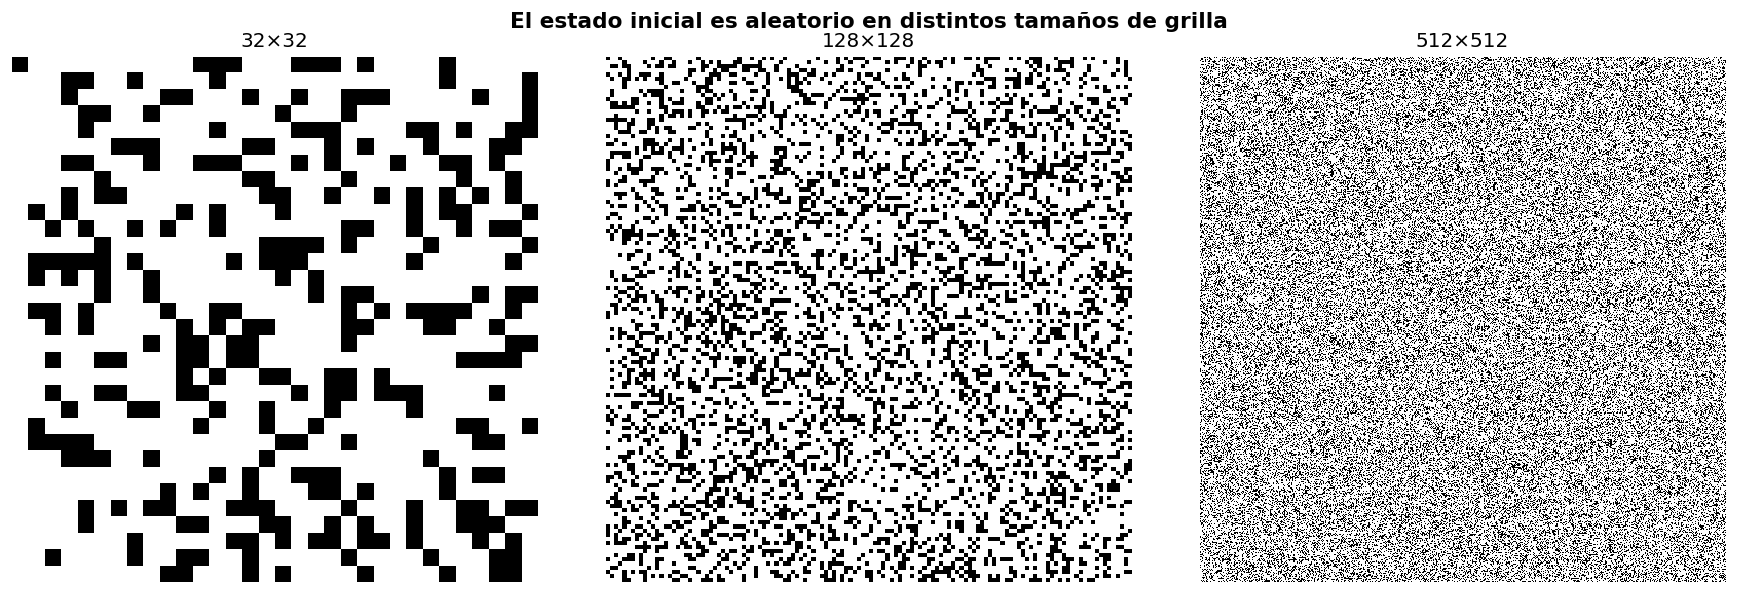
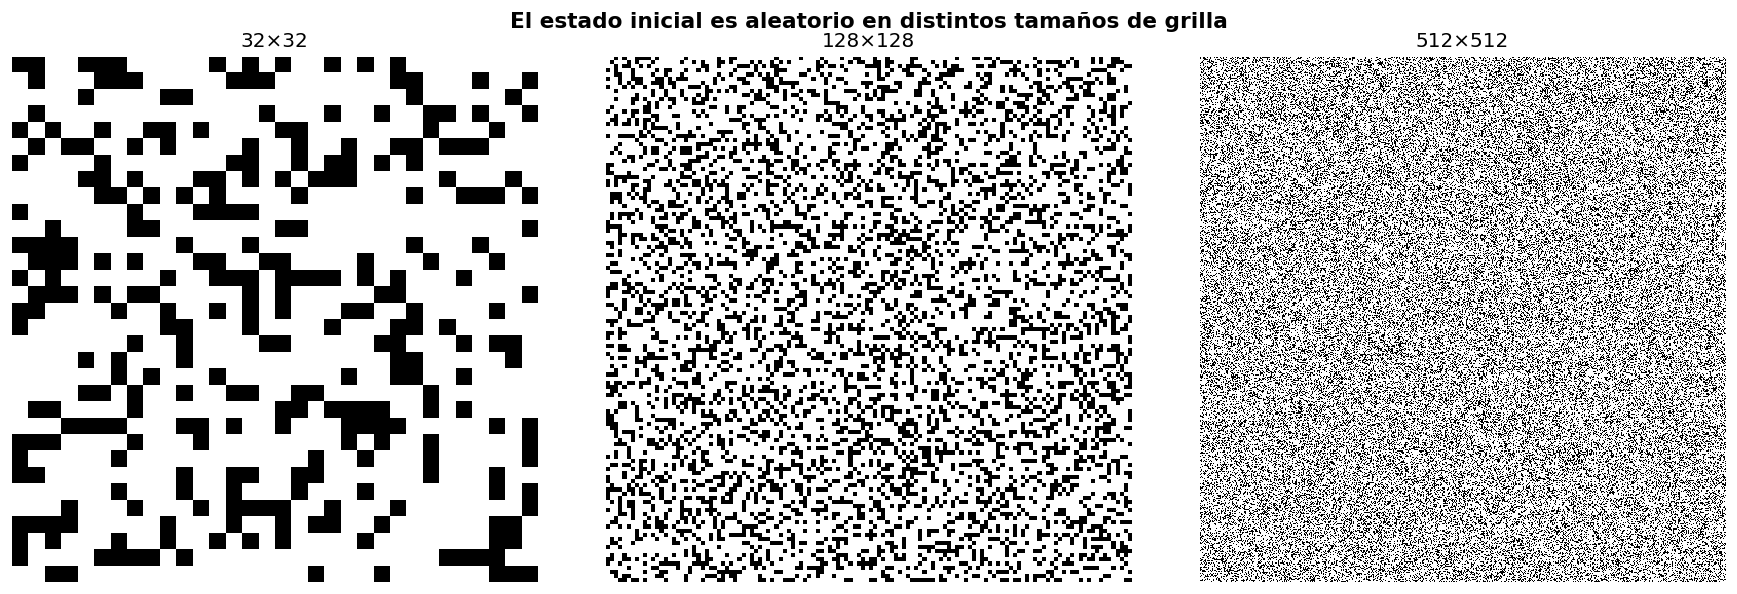
update 2

diff --git a/rendimiento.py b/rendimiento.py
@@ -1,39 +1,25 @@
-"""
-Tarea 1: Juego de la Vida de Conway
-Módulo de medición de rendimiento y complejidad empírica.
-
-Varía el tamaño de la grilla y mide el tiempo promedio por iteración,
-luego genera gráficas comparativas con curvas teóricas de complejidad.
-
-Autor: [Tu nombre]
-Fecha: 2026-05-20
-"""
-
 import numpy as np
 import matplotlib.pyplot as plt
 import time
 
 from game_of_life import GameOfLife
 
-
-# ─────────────────────────────────────────────
 # 1. Función de benchmark
 # ─────────────────────────────────────────────
 
 def benchmark(sizes, repetitions=5, steps_per_run=10):
     """
-    Mide el tiempo promedio de ejecución por iteración para distintos
-    tamaños de grilla.
+    Esto mide el tiempo promedio de ejecución por iteración para los distintos tamaños de grilla
 
-    Parámetros:
-        sizes         : lista de tamaños N para grillas N×N.
-        repetitions   : cuántas veces repetir cada prueba (para promediar).
-        steps_per_run : pasos por ejecución en cada repetición.
+    Los parámetros son:
+        sizes: es la lista de tamaños N para grillas N*N.
+        repetitions: cuántas veces se va a repetir cada prueba con el fin de promediar
+        steps_per_run: son los pasos por ejecución en cada repetición
 
-    Retorna:
-        n_cells   (list): número total de celdas (N*N) por tamaño.
-        avg_times (list): tiempo promedio por iteración (segundos).
-        std_times (list): desviación estándar del tiempo por iteración.
+    Regresa:
+        n_cells (list): es el número total de celdas N*N por tamaño
+        avg_times (list): es el tiempo promedio por iteración (los segundos)
+        std_times (list): es la desv. estándar del tiempo por cada iteración
     """
     n_cells    = []
     avg_times  = []
@@ -43,66 +29,62 @@ def benchmark(sizes, repetitions=5, steps_per_run=10):
     print("-" * 52)
 
     for N in sizes:
-        times_per_iter = []
+        times_per_iter = [] #Es la lista donde se va a guardar el tiempo promedio por iteración para cada repetición
 
         for _ in range(repetitions):
-            game = GameOfLife(N, N)  # nuevo estado aleatorio cada vez
-            start = time.perf_counter()
-            game.run(steps_per_run)
-            elapsed = time.perf_counter() - start
-            # Tiempo promedio por iteración en esta repetición
+            game = GameOfLife(N, N)  #nuevo estado aleatorio cada vez
+            start = time.perf_counter() #se encarga de guardar el estado inicial antes de ejecutar
+            game.run(steps_per_run) #ejecuta simulación por x cantidad de pasos
+            elapsed = time.perf_counter() - start #cuánto duró la simulación
+            #tiempo promedio por iteración en esta repetición
             times_per_iter.append(elapsed / steps_per_run)
 
-        mean_t = np.mean(times_per_iter)
-        std_t  = np.std(times_per_iter)
+        mean_t = np.mean(times_per_iter) #tiempo promedio total entre todas las repeticiones
+        std_t  = np.std(times_per_iter) #desv. standar con el fin de medir cuanto cambian los tiempos que se obtuvieron
 
-        n_cells.append(N * N)
-        avg_times.append(mean_t)
-        std_times.append(std_t)
+        n_cells.append(N * N) #guarda cant total de celulas de la grilla
+        avg_times.append(mean_t) #guarda tiempo promedio
+        std_times.append(std_t) #guarda desv. estandar
 
         print(
             f"{N:>7}×{N:<3}  {N*N:>10,}  "
             f"{mean_t * 1000:>14.4f}  {std_t * 1000:>10.4f}"
         )
 
-    return n_cells, avg_times, std_times
+    return n_cells, avg_times, std_times #retorna listas con resultados obtenidos
 
 
-# ─────────────────────────────────────────────
 # 2. Curvas teóricas de referencia
 # ─────────────────────────────────────────────
 
 def theoretical_curves(n_cells, avg_times):
     """
-    Genera curvas teóricas escaladas al primer punto de datos para
-    comparación visual.
+    Se generan las curvas teóricas escaladas al primer punto de datos para una comparación visual
 
-    Retorna un dict {nombre: array de tiempos teóricos}.
+    Luego retorna un dict {nombre: array de tiempos teóricos}
     """
     n = np.array(n_cells, dtype=float)
-    t0 = avg_times[0]  # ancla al primer punto
+    t0 = avg_times[0]  #ancla al primer punto
     n0 = n[0]
 
     curves = {
-        "O(n)":       t0 * (n / n0),
-        "O(n log n)": t0 * (n * np.log(n)) / (n0 * np.log(n0)),
-        "O(n²)":      t0 * (n / n0) ** 2,
+        "O(n)":t0 * (n / n0), #el tiempo crece proporcionalmente al tamaño
+        "O(n log n)": t0 * (n * np.log(n)) / (n0 * np.log(n0)), #crecimiento + rápido que linea sin embargo - a cuadratico
+        "O(n²)": t0 * (n / n0) ** 2, #tiempo aumenta mucho mas rapido 
     }
     return curves
 
-
-# ─────────────────────────────────────────────
 # 3. Gráficas de rendimiento
 # ─────────────────────────────────────────────
 
 def plot_performance(n_cells, avg_times, std_times, save_path=None):
     """
-    Genera dos gráficas:
-      (a) Escala lineal: tiempo vs celdas con curvas teóricas.
-      (b) Escala log-log: para identificar el orden de complejidad.
+    Se generan 2 gráficas:
+      (a) Escala lineal: es el tiempo vs las celdas con curvas teóricas
+      (b) Escala log-log: para identificar el orden de complejidad
     """
     n   = np.array(n_cells)
-    t   = np.array(avg_times) * 1000   # pasar a milisegundos
+    t   = np.array(avg_times) * 1000   #pasar a milisegundos
     std = np.array(std_times) * 1000
 
     curves = theoretical_curves(n_cells, avg_times)
@@ -113,42 +95,83 @@ def plot_performance(n_cells, avg_times, std_times, save_path=None):
         fontsize=14, fontweight="bold"
     )
 
-    # Colores para las curvas teóricas
+    #colores para las curvas teóricas
     colors = {"O(n)": "#2ca02c", "O(n log n)": "#ff7f0e", "O(n²)": "#d62728"}
 
-    # ── (a) Escala lineal ──────────────────────────────────────────────
+    #(a) Escala lineal-----
     ax = axes[0]
+
+    #grafica los tiempos medidos experimentalmente usando barras de error (desv estandar)
     ax.errorbar(
         n, t, yerr=std,
-        fmt="o-", color="#1f77b4", linewidth=2, markersize=6,
-        label="Medición empírica", capsize=4, zorder=5
+        fmt="o-", 
+        color="#1f77b4", 
+        linewidth=2, 
+        markersize=6,
+        label="Medición empírica", 
+        capsize=4, #tamaño de las barras de error
+        zorder=5 #prioridad visual
     )
-    for name, curve in curves.items():
-        ax.plot(n, curve * 1000, linestyle="--",
-                color=colors[name], label=name, alpha=0.8)
 
-    ax.set_xlabel("Número de celdas (N×N)", fontsize=11)
-    ax.set_ylabel("Tiempo promedio por iteración (ms)", fontsize=11)
+    #grafica curvas teoricas
+    for name, curve in curves.items():
+        ax.plot(
+            n, 
+            curve * 1000, 
+            linestyle="--",
+            color=colors[name], 
+            label=name, 
+            alpha=0.8
+        )
+    
+    #etiqueta eje x
+    ax.set_xlabel(
+        "Número de celdas (N×N)", 
+        fontsize=11
+    )
+    #etiqueta eje y
+    ax.set_ylabel(
+        "Tiempo promedio por iteración (ms)", 
+        fontsize=11
+    )
+
     ax.set_title("Escala lineal", fontsize=12)
     ax.legend(fontsize=9)
     ax.grid(True, linestyle="--", alpha=0.4)
-    # Formato de eje x con separador de miles
+
+    #formato de eje x con separador de miles
     ax.xaxis.set_major_formatter(
         plt.FuncFormatter(lambda x, _: f"{int(x):,}")
     )
 
-    # ── (b) Escala log-log ─────────────────────────────────────────────
-    ax2 = axes[1]
-    ax2.errorbar(
-        n, t, yerr=std,
-        fmt="o-", color="#1f77b4", linewidth=2, markersize=6,
-        label="Medición empírica", capsize=4, zorder=5
-    )
-    for name, curve in curves.items():
-        ax2.plot(n, curve * 1000, linestyle="--",
-                 color=colors[name], label=name, alpha=0.8)
+    #(b) Escala log-log----
 
+    #elige el segundo subplot
+    ax2 = axes[1]
+    ax2.errorbar( #grafica de nuevo los datos experimentales 
+        n, t, yerr=std,
+        fmt="o-", 
+        color="#1f77b4", 
+        linewidth=2, 
+        markersize=6,
+        label="Medición empírica", 
+        capsize=4, 
+        zorder=5
+    )
+
+    #grafica las curvas teoricas
+    for name, curve in curves.items():
+        ax2.plot(
+            n, 
+            curve * 1000, 
+            linestyle="--",
+            color=colors[name], 
+            label=name, 
+            alpha=0.8
+        )
+#convierte eje x escala logaritmica
     ax2.set_xscale("log")
+#convierte eje y escala logaritmica
     ax2.set_yscale("log")
     ax2.set_xlabel("Número de celdas (N×N) — escala log", fontsize=11)
     ax2.set_ylabel("Tiempo promedio por iteración (ms) — escala log", fontsize=11)
@@ -164,14 +187,12 @@ def plot_performance(n_cells, avg_times, std_times, save_path=None):
 
     return fig
 
-
-# ─────────────────────────────────────────────
 # 4. Análisis de uso de memoria
 # ─────────────────────────────────────────────
 
 def memory_usage_table(sizes):
     """
-    Estima el uso de memoria del tablero para distintos tamaños.
+    Lo que hace es estimar el uso de memoria del tablero para distintos tamaños
     (numpy uint8: 1 byte por celda)
     """
     print("\n=== Uso de memoria estimado ===")
@@ -179,7 +200,7 @@ def memory_usage_table(sizes):
     print("-" * 35)
     for N in sizes:
         cells = N * N
-        # 2 matrices uint8 (tablero actual + vecinos) ≈ 2 bytes/celda
+        #2 matrices uint8 (tablero actual + vecinos) ≈ 2 bytes/celda
         mem_bytes = cells * 2
         if mem_bytes < 1024:
             mem_str = f"{mem_bytes} B"
@@ -189,13 +210,11 @@ def memory_usage_table(sizes):
             mem_str = f"{mem_bytes/1024**2:.2f} MB"
         print(f"{N:>7}×{N:<3}  {cells:>10,}  {mem_str:>10}")
 
-
-# ─────────────────────────────────────────────
 # Ejecución principal
 # ─────────────────────────────────────────────
 
 if __name__ == "__main__":
-    # Tamaños de grilla a medir
+    #tamaños de grilla a medir
     SIZES = [32, 64, 128, 256, 512, 1024]
 
     print("=" * 55)
@@ -206,20 +225,20 @@ if __name__ == "__main__":
     print(f"  Pasos por repetición:    10")
     print("=" * 55 + "\n")
 
-    # Ejecutar benchmark
+    #ejecutar benchmark
     n_cells, avg_times, std_times = benchmark(
         SIZES, repetitions=5, steps_per_run=10
     )
 
-    # Tabla de memoria
+    #tabla de memoria
     memory_usage_table(SIZES)
 
-    # Gráficas
-    print("\nGenerando gráficas de rendimiento...")
+    #gráficas
+    print("\nSe están generando las gráficas de rendimiento")
     fig = plot_performance(
         n_cells, avg_times, std_times,
         save_path="output_rendimiento.png"
     )
     plt.close(fig)
 
-    print("\nListo.")
+    print("\Finalizado")

diff --git a/visualizacion.py b/visualizacion.py
@@ -84,7 +84,7 @@ def plot_pattern_evolution(game, n_frames=6, title="Es la evolución del patrón
     rows = (n_frames + cols - 1) // cols
     fig, axes = plt.subplots(rows, cols, figsize=(cols * 3, rows * 3))
     fig.suptitle(title, fontsize=15, fontweight="bold", y=1.01)
-    fig.patch.set_facecolor("#f5f5f5")
+    fig.patch.set_facecolor("#f7f7f7")
 
     axes = axes.flatten()
 